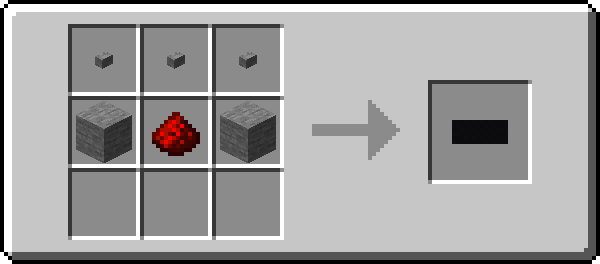
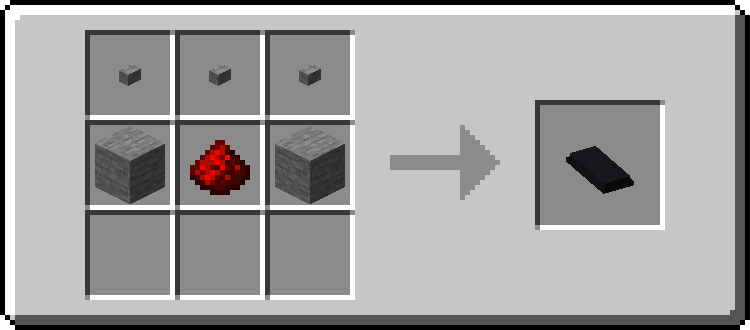
added changelog + updated entity detector docs + updated keyboard recipe

Changed region(s): [[0.75, 0.4242, 0.87, 0.6061]]

diff --git a/docs/peripherals/Entity-Detector.md b/docs/peripherals/Entity-Detector.md
@@ -3,7 +3,7 @@
 <br clear="center">
 
 <p valign="left"> 
-This peripheral can be used to get data on nearby entities, including players.
+This peripheral can be used to get data on nearby entities, including players. Note that all coordinates are returned relative to the entity detector
 </p>
 
 <br clear="right">
@@ -89,7 +89,7 @@ This peripheral can be used to get data on nearby entities, including players.
             Fires when an entity spawns or enters the range
         </td>
         <td width=350>
-<pre><code class="language-json">1: 'newEntity' - event name
+<pre><code class="language-json">1: 'new_entity' - event name
 2: array: {
   i: {
     "uuid": string,
@@ -114,7 +114,7 @@ This peripheral can be used to get data on nearby entities, including players.
             Fires when an entity dies or leaves the range
         </td>
         <td width=350>
-<pre><code class="language-json">1: 'removedEntity' - event name
+<pre><code class="language-json">1: 'removed_entity' - event name
 2: array: {
   i: {
     "uuid": string,

diff --git a/docs/changelog.md b/docs/changelog.md
@@ -1,0 +1,21 @@
+# Changelog
+
+## 1.0.2
+
+### Added
+- Glow effect on entity detector through continuity, iris, and shaderpacks
+- Proper keyboard item models
+- Icon and updated description for the fabric.mod.json
+
+### Changes
+- Entity Detector now gives relative coordinates
+- Entity Detector events are renamed to match CC standard
+
+### Fixed
+- Crash when teleporting away from weather machine
+- REI opening up with the keyboard
+
+
+<br>
+
+## Start of changelog
